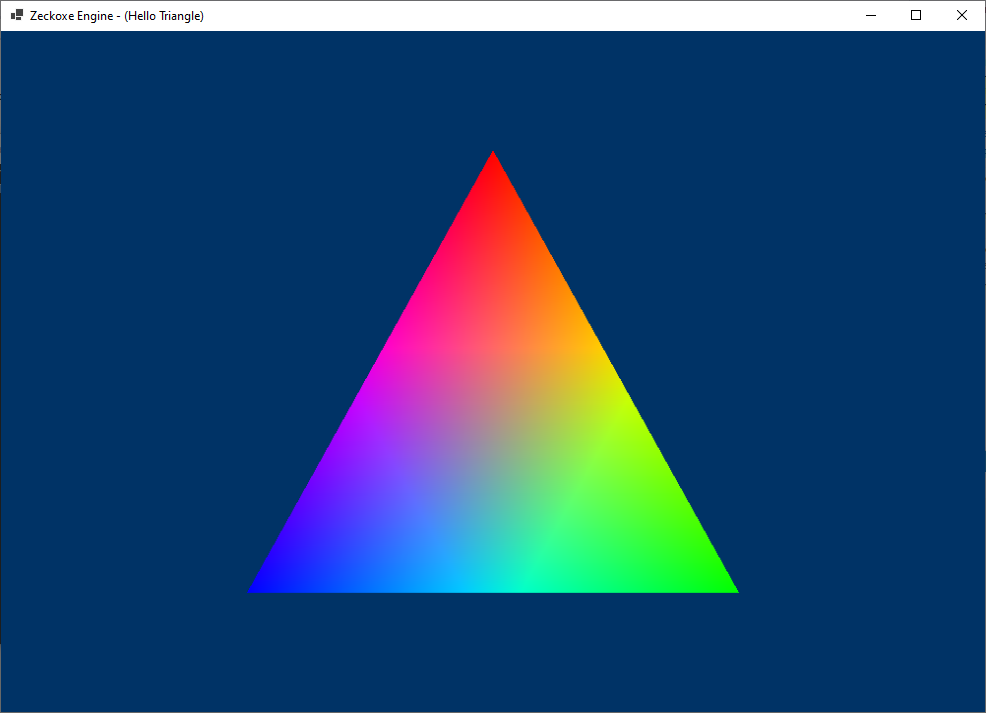
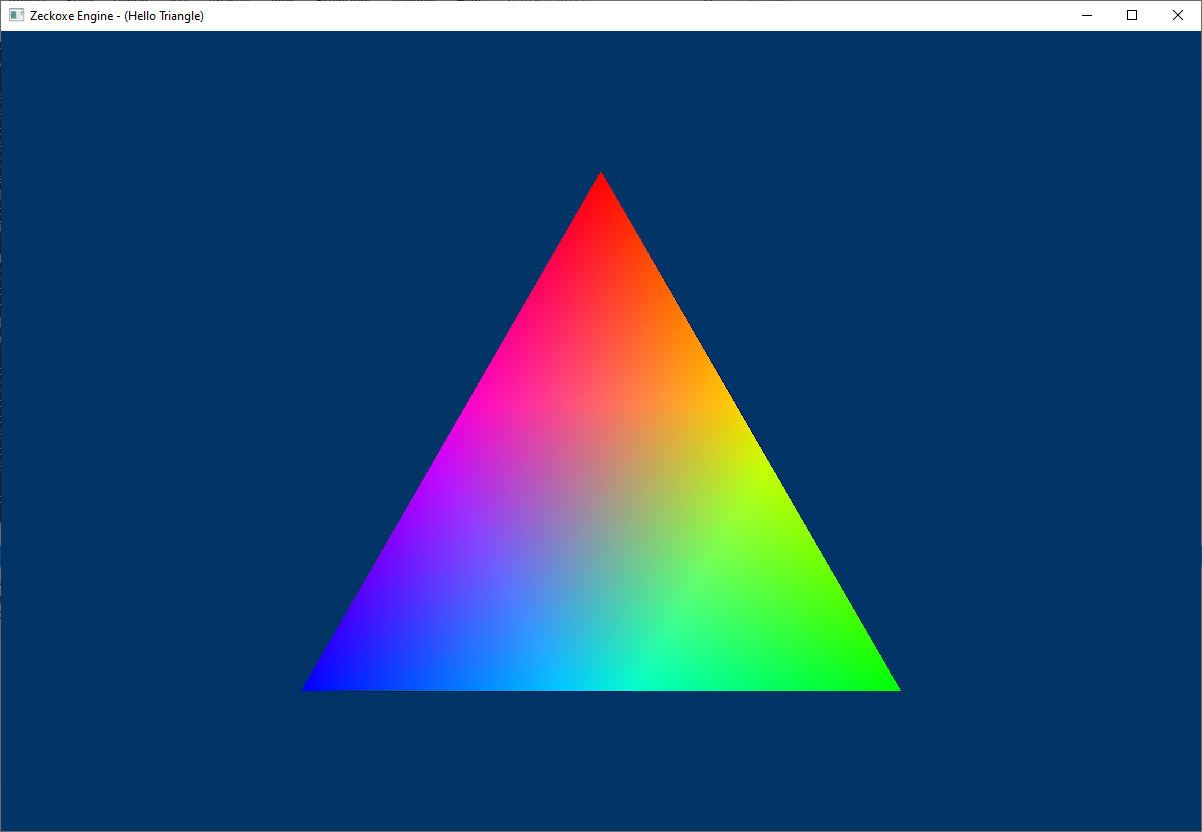
Update Screenshots

diff --git a/Src/Samples/Samples/Transformations.cs b/Src/Samples/Samples/Transformations.cs
@@ -49,82 +49,65 @@ namespace Samples.Samples
 
 
             // left side face
-                    new Vertex { Position = new Vector3(-0.5f,  0.5f,  0.5f), Color = new Vector3(1.0f, 0.0f, 0.0f) },
-                    new Vertex { Position = new Vector3(-0.5f, -0.5f, -0.5f), Color = new Vector3(1.0f, 0.0f, 1.0f) },
-                    new Vertex { Position = new Vector3(-0.5f, -0.5f,  0.5f), Color = new Vector3(0.0f, 0.0f, 1.0f) },
-                    new Vertex { Position = new Vector3(-0.5f,  0.5f, -0.5f), Color = new Vector3(0.0f, 1.0f, 0.0f) },
+            new Vertex { Position = new Vector3(-0.5f,  0.5f,  0.5f), Color = new Vector3(1.0f, 0.0f, 0.0f) },
+            new Vertex { Position = new Vector3(-0.5f, -0.5f, -0.5f), Color = new Vector3(1.0f, 0.0f, 1.0f) },
+            new Vertex { Position = new Vector3(-0.5f, -0.5f,  0.5f), Color = new Vector3(0.0f, 0.0f, 1.0f) },
+            new Vertex { Position = new Vector3(-0.5f,  0.5f, -0.5f), Color = new Vector3(0.0f, 1.0f, 0.0f) },
 
 
-                    // back face
-                    new Vertex { Position = new Vector3(0.5f,  0.5f,  0.5f), Color = new Vector3(1.0f, 0.0f, 0.0f) },
-                    new Vertex { Position = new Vector3(-0.5f, -0.5f,  0.5f), Color = new Vector3(1.0f, 0.0f, 1.0f) },
-                    new Vertex { Position = new Vector3( 0.5f, -0.5f,  0.5f), Color = new Vector3(0.0f, 0.0f, 1.0f) },
-                    new Vertex { Position = new Vector3(-0.5f,  0.5f,  0.5f), Color = new Vector3(0.0f, 1.0f, 0.0f) },
-
-
-
-                    // top face
-                    new Vertex { Position = new Vector3(-0.5f,  0.5f, -0.5f), Color = new Vector3(1.0f, 0.0f, 0.0f) },
-                    new Vertex { Position = new Vector3(0.5f,  0.5f,  0.5f), Color = new Vector3(1.0f, 0.0f, 1.0f) },
-                    new Vertex { Position = new Vector3( 0.5f,  0.5f, -0.5f), Color = new Vector3(0.0f, 0.0f, 1.0f) },
-                    new Vertex { Position = new Vector3(-0.5f,  0.5f,  0.5f), Color = new Vector3(0.0f, 1.0f, 0.0f) },
-
-
-                    // bottom face
-                    new Vertex { Position = new Vector3( 0.5f, -0.5f,  0.5f), Color = new Vector3(1.0f, 0.0f, 0.0f) },
-                    new Vertex { Position = new Vector3(-0.5f, -0.5f, -0.5f), Color = new Vector3(1.0f, 0.0f, 1.0f) },
-                    new Vertex { Position = new Vector3( 0.5f, -0.5f, -0.5f), Color = new Vector3(0.0f, 0.0f, 1.0f) },
-                    new Vertex { Position = new Vector3(-0.5f, -0.5f,  0.5f), Color = new Vector3(0.0f, 1.0f, 0.0f) },
-
-            };
+            // back face
+            new Vertex { Position = new Vector3(0.5f,  0.5f,  0.5f), Color = new Vector3(1.0f, 0.0f, 0.0f) },
+            new Vertex { Position = new Vector3(-0.5f, -0.5f,  0.5f), Color = new Vector3(1.0f, 0.0f, 1.0f) },
+            new Vertex { Position = new Vector3( 0.5f, -0.5f,  0.5f), Color = new Vector3(0.0f, 0.0f, 1.0f) },
+            new Vertex { Position = new Vector3(-0.5f,  0.5f,  0.5f), Color = new Vector3(0.0f, 1.0f, 0.0f) },
 
 
 
+            // top face
+            new Vertex { Position = new Vector3(-0.5f,  0.5f, -0.5f), Color = new Vector3(1.0f, 0.0f, 0.0f) },
+            new Vertex { Position = new Vector3(0.5f,  0.5f,  0.5f), Color = new Vector3(1.0f, 0.0f, 1.0f) },
+            new Vertex { Position = new Vector3( 0.5f,  0.5f, -0.5f), Color = new Vector3(0.0f, 0.0f, 1.0f) },
+            new Vertex { Position = new Vector3(-0.5f,  0.5f,  0.5f), Color = new Vector3(0.0f, 1.0f, 0.0f) },
+
+
+            // bottom face
+            new Vertex { Position = new Vector3( 0.5f, -0.5f,  0.5f), Color = new Vector3(1.0f, 0.0f, 0.0f) },
+            new Vertex { Position = new Vector3(-0.5f, -0.5f, -0.5f), Color = new Vector3(1.0f, 0.0f, 1.0f) },
+            new Vertex { Position = new Vector3( 0.5f, -0.5f, -0.5f), Color = new Vector3(0.0f, 0.0f, 1.0f) },
+            new Vertex { Position = new Vector3(-0.5f, -0.5f,  0.5f), Color = new Vector3(0.0f, 1.0f, 0.0f) },
+
+        };
 
         public int[] indices = new[]
         {
-                // ffront face
-                0, 1, 2, // first triangle
-                0, 3, 1, // second triangle
+            // ffront face
+            0, 1, 2, // first triangle
+            0, 3, 1, // second triangle
 
-                // left face
-                4, 5, 6, // first triangle
-                4, 7, 5, // second triangle
+            // left face
+            4, 5, 6, // first triangle
+            4, 7, 5, // second triangle
 
-                // right face
-                8, 9, 10, // first triangle
-                8, 11, 9, // second triangle
+            // right face
+            8, 9, 10, // first triangle
+            8, 11, 9, // second triangle
 
-                // back face
-                12, 13, 14, // first triangle
-                12, 15, 13, // second triangle
+            // back face
+            12, 13, 14, // first triangle
+            12, 15, 13, // second triangle
 
-                // top face
-                16, 17, 18, // first triangle
-                16, 19, 17, // second triangle
+            // top face
+            16, 17, 18, // first triangle
+            16, 19, 17, // second triangle
 
-                // bottom face
-                20, 21, 22, // first triangle
-                20, 23, 21, // second triangle
+            // bottom face
+            20, 21, 22, // first triangle
+            20, 23, 21, // second triangle
         };
+
         private float r = 0;
 
 
-        public Window Window { get; set; }
-        public PresentationParameters Parameters { get; set; }
-        public GraphicsAdapter Adapter { get; set; }
-        public GraphicsDevice Device { get; set; }
-        public Framebuffer Framebuffer { get; set; }
-        public GraphicsContext Context { get; set; }
-        public PipelineState PipelineState { get; set; }
-        public Buffer VertexBuffer { get; set; }
-        public Buffer IndexBuffer { get; set; }
-        public Buffer ConstBuffer { get; set; }
-        public Buffer ConstBuffer2 { get; set; }
-        public Camera Camera { get; set; }
-        public GameTime GameTime { get; set; }
-        public DescriptorSet Descriptor1 { get; set; }
-        public DescriptorSet Descriptor2 { get; set; }
 
         public Transformations()
         {
@@ -145,8 +128,21 @@ namespace Samples.Samples
             };
 
         }
-
-
+        public Window Window { get; set; }
+        public PresentationParameters Parameters { get; set; }
+        public GraphicsAdapter Adapter { get; set; }
+        public GraphicsDevice Device { get; set; }
+        public Framebuffer Framebuffer { get; set; }
+        public GraphicsContext Context { get; set; }
+        public PipelineState PipelineState { get; set; }
+        public Buffer VertexBuffer { get; set; }
+        public Buffer IndexBuffer { get; set; }
+        public Buffer ConstBuffer { get; set; }
+        public Buffer ConstBuffer2 { get; set; }
+        public Camera Camera { get; set; }
+        public GameTime GameTime { get; set; }
+        public DescriptorSet Descriptor1 { get; set; }
+        public DescriptorSet Descriptor2 { get; set; }
 
 
         public void Initialize()

diff --git a/Src/Samples/Samples/ClearScreen.cs b/Src/Samples/Samples/ClearScreen.cs
@@ -26,7 +26,7 @@ namespace Samples.Samples
 
         public ClearScreen()
         {
-            Window = new Window("Zeckoxe Engine - (Clear Screen)", 1000, 720)
+            Window = new Window("Zeckoxe Engine - (Clear Screen)", 1200, 800)
             {
                 //StartPosition = System.Windows.Forms.FormStartPosition.CenterScreen,
             };

diff --git a/Src/Samples/Samples/Triangle.cs b/Src/Samples/Samples/Triangle.cs
@@ -53,7 +53,7 @@ namespace Samples.Samples
 
         public Triangle()
         {
-            Window = new Window(string.Empty, 1000, 720);
+            Window = new Window(string.Empty, 1200, 800);
 
 
             Parameters = new PresentationParameters()
